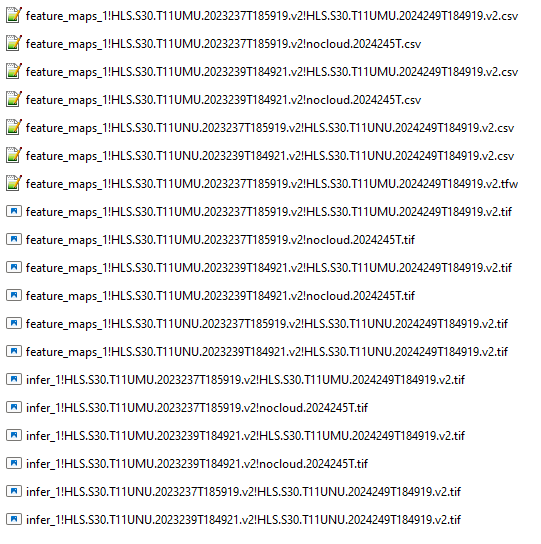
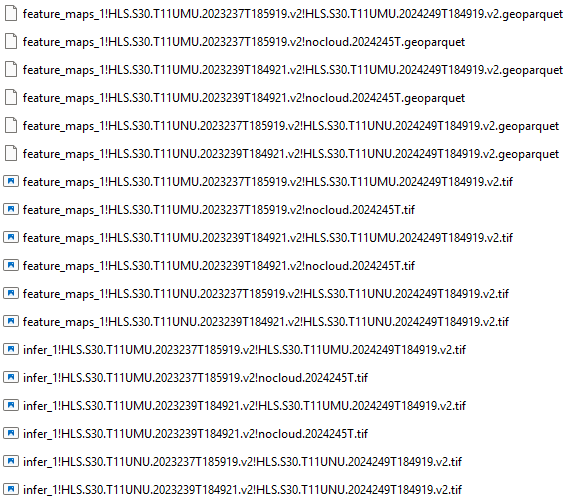
asset and readme update

diff --git a/README.md b/README.md
@@ -405,7 +405,7 @@ The inference will happen in parallel if batch_size > 1 and using multiple GPUs 
 Then the tiles will merge back using an approach that increases confidence in prediction. 
 
 When this code finishes the "infer" task, for each pair of input_file_0 and input_file_1, a set of before_date, after_date, quality_fmask, infer_0, infer_1, cosine_map, feature_maps_0, feature_maps_1 tif files as well as
-feature_maps_0 and feature_maps_1 csv files will be created.
+feature_maps_0 and feature_maps_1 geoparquet files will be created.
 
      epoch2024/inference:
 ![infer0.png](assets/infer0.png)
@@ -457,7 +457,7 @@ Also note that they all have EPSG:3979 as their CRS and 30 meters as their resol
 
 Also note that all these files will end with "_c" in their names to show that the final cosine map influenced their creation.
 
-Finally note that since we had set "mosaic_params->delete_residues" to true, then all previous individual inference results (Except for the feature_maps csv files) will be deleted.
+Finally note that since we had set "mosaic_params->delete_residues" to true, then all previous individual inference results (Except for the feature_maps geoparquet files) will be deleted.
 
      epoch2023/inference:
 ![infer_mosaic.png](assets/infer_mosaic.png)